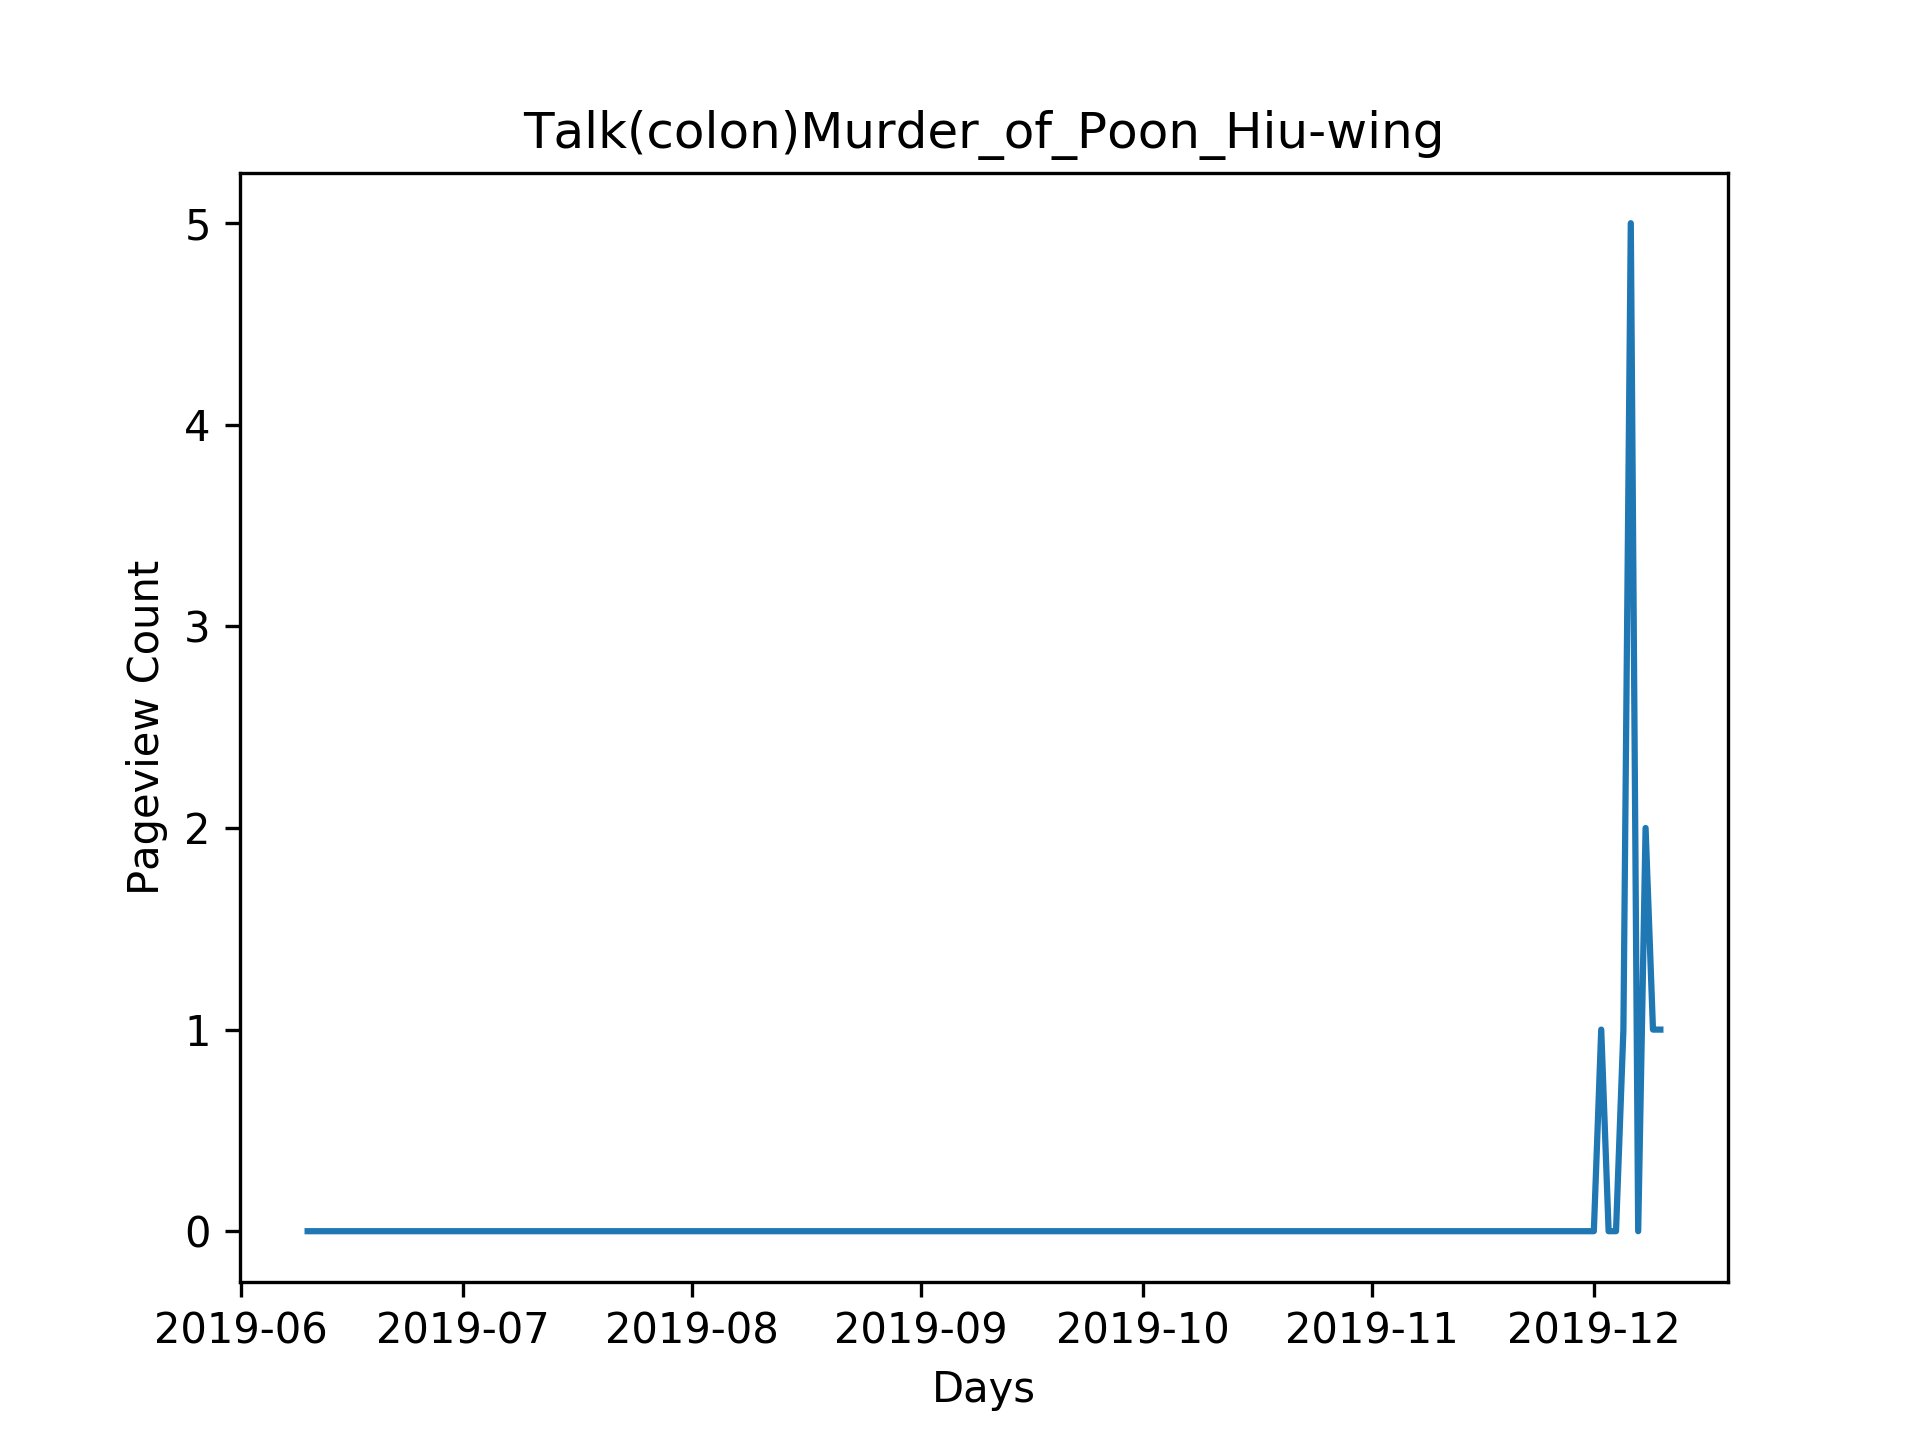
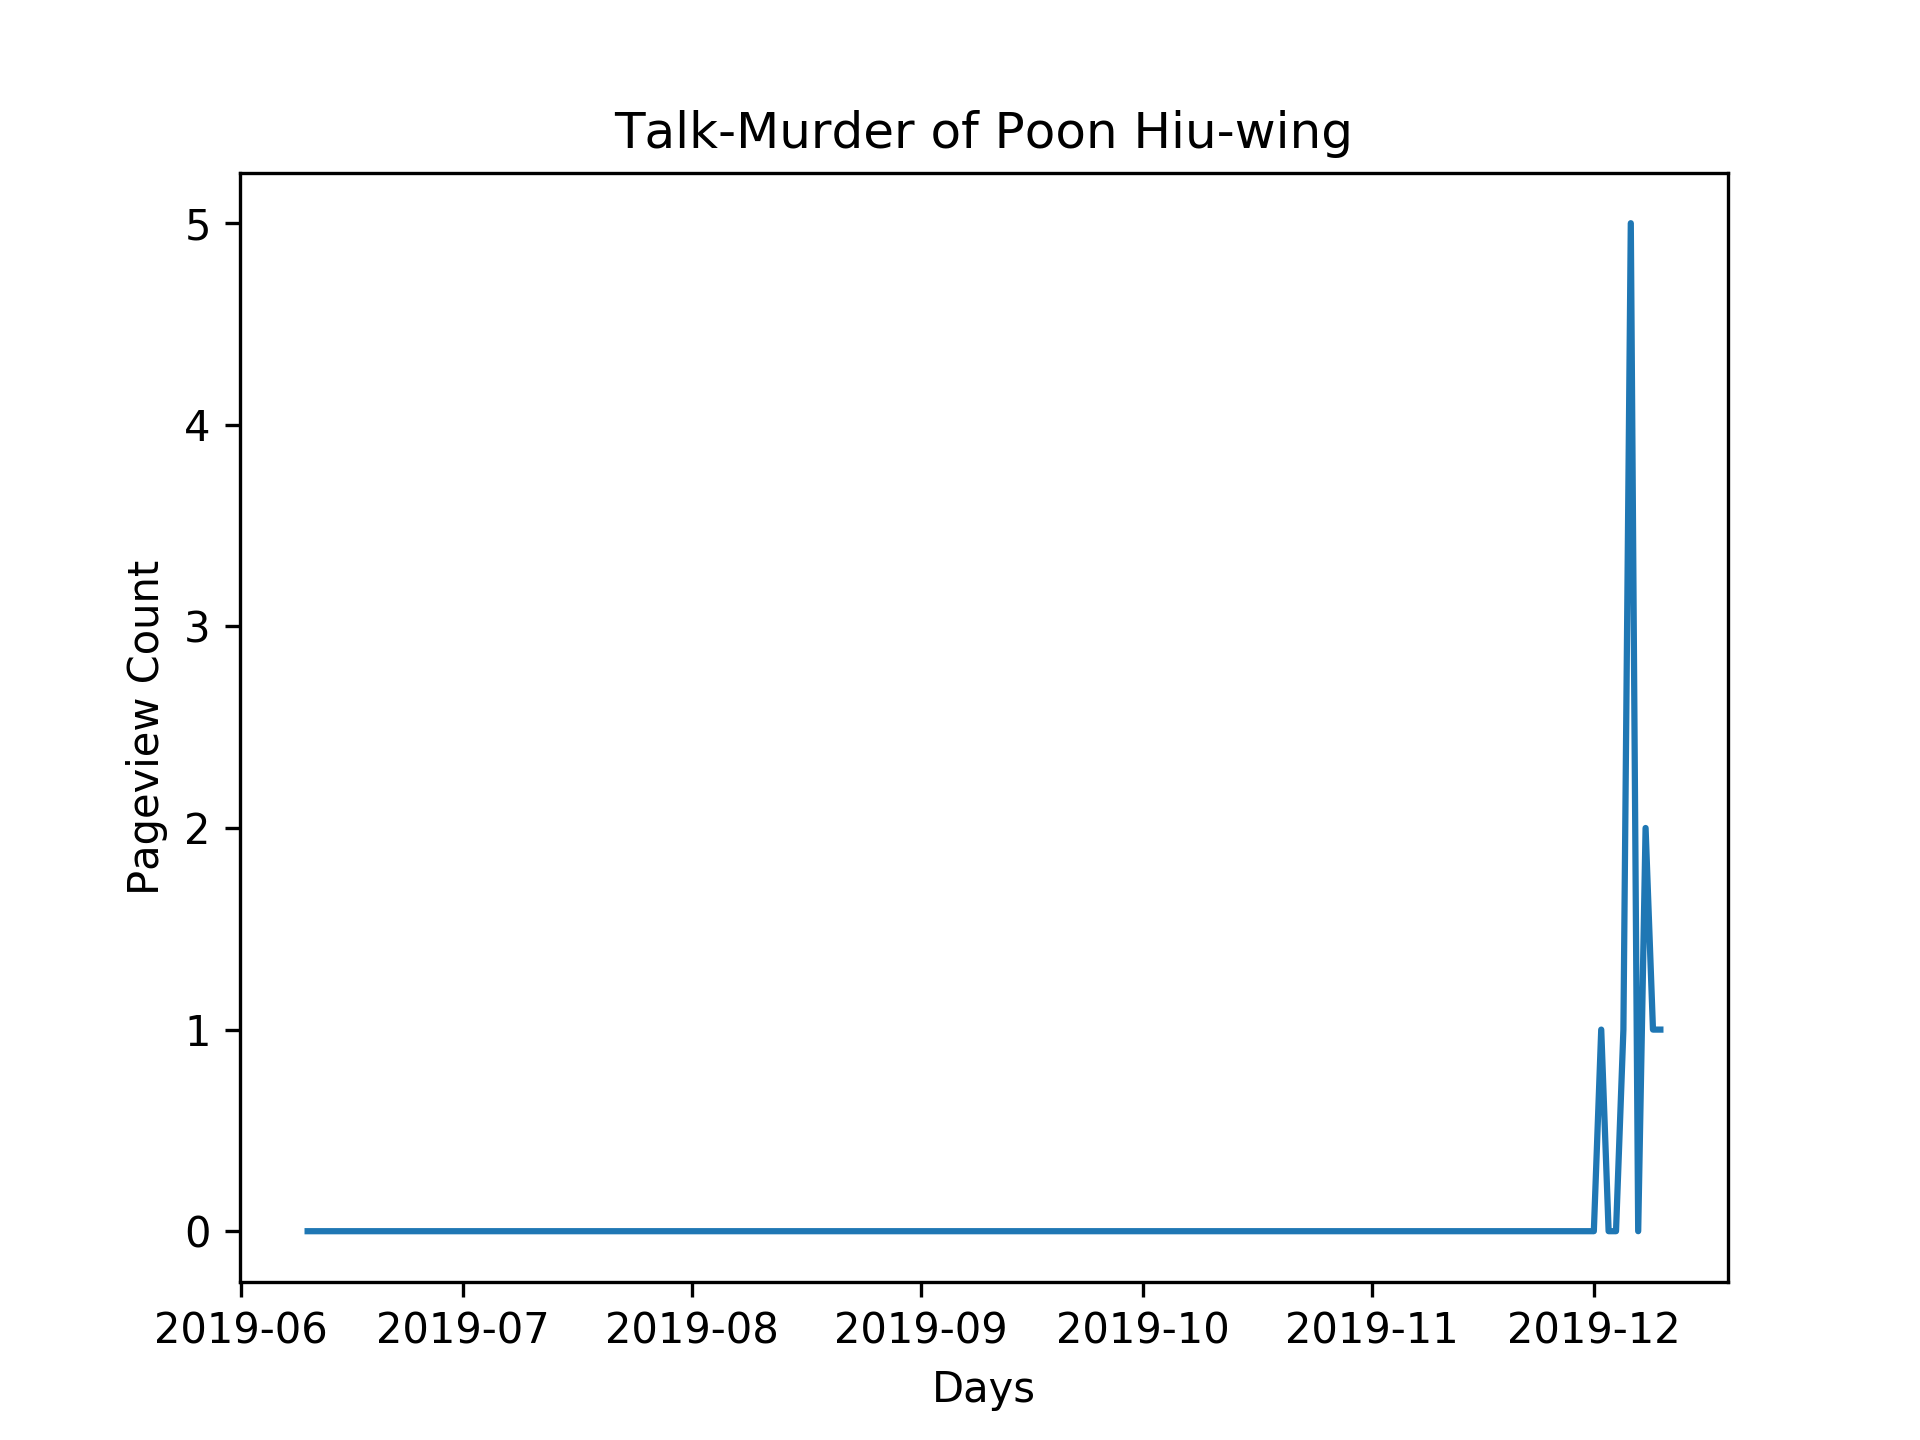
add agrregate plots

Changed region(s): [[0.2812, 0.0625, 0.75, 0.125]]

diff --git a/pageviews.py b/pageviews.py
@@ -53,14 +53,20 @@ views = dict()
 for f in os.listdir(path):
     views[f[:-4]] = pd.read_csv(os.path.join(path, f))
 
+
 # datetime converter for a matplotlib plotting method
 register_matplotlib_converters()
 
 '''
-    Plots daily pageviews per page
+    Plots daily pageviews per page.
+    Also aggregate for all pages.
 '''
 
 def plotPageviews(pageDict):
+    allDays = []
+    allNumViews = []
+    keyNames = []
+    focal = []
     for key in pageDict.keys():
         days = []
         numViews = []
@@ -73,12 +79,60 @@ def plotPageviews(pageDict):
         days = df['Date'].tolist()
         numViews = df['Count'].tolist()
 
+        if (key == "2019–20_Hong_Kong_protests"):
+            focal = [prettyPrint(key), days, numViews]
+        elif ("Talk" not in key):
+            keyNames.append(prettyPrint(key))
+            allDays.append(days)
+            allNumViews.append(numViews)
+
         plt.plot(days, numViews)
         plt.title(prettyPrint(key))
         plt.xlabel("Days")
         plt.ylabel("Pageview Count")
         plt.savefig(os.path.join(savepath, key + ".png"), dpi=300)
         plt.close()
+        
+    # aggregate plots
+    section = 1
+    while (len(allDays) != 0):
+        even = False
+        for i in range(len(allDays)):
+            if (((i +1) % 5) != 0):
+                even = False
+                plt.plot(allDays.pop(), allNumViews.pop(), label=keyNames.pop())
+            else:
+                even = True
+                plt.plot(focal[1], focal[2], label=focal[0])
+                months = mdates.MonthLocator()  # every month
+                fmt = mdates.DateFormatter('%B')
+                plt.ylabel("Pageviews")
+                plt.yscale("log")
+                plt.xlabel("2019")
+                plt.legend()
+                # https://stackoverflow.com/questions/46555819/months-as-axis-ticks
+                X = plt.gca().xaxis
+                X.set_major_locator(months)
+                X.set_major_formatter(fmt)
+                plt.savefig(os.path.join("figures","Aggregate{0}Section2019.png".format(str(section))), dpi=300)
+                plt.close()
+                section += 1
+    if (not even):
+        plt.plot(focal[1], focal[2], label=focal[0])
+        months = mdates.MonthLocator()  # every month
+        fmt = mdates.DateFormatter('%B')
+        plt.ylabel("Pageviews")
+        plt.yscale("log")
+        plt.xlabel("2019")
+        plt.legend()
+        # https://stackoverflow.com/questions/46555819/months-as-axis-ticks
+        X = plt.gca().xaxis
+        X.set_major_locator(months)
+        X.set_major_formatter(fmt)
+        plt.savefig(os.path.join("figures","Aggregate{0}Section2019.png".format(str(section))), dpi=300)
+        plt.close()
+
+
 
 plotPageviews(views)
 
